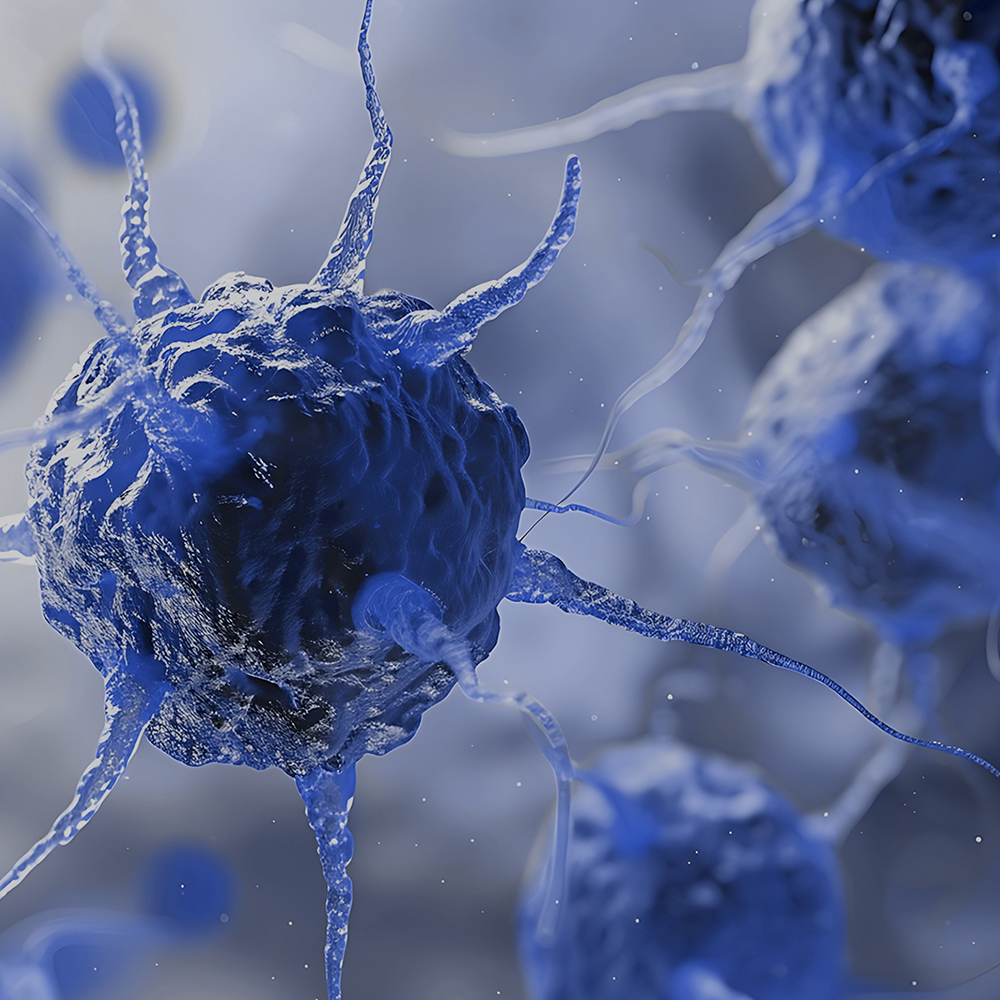
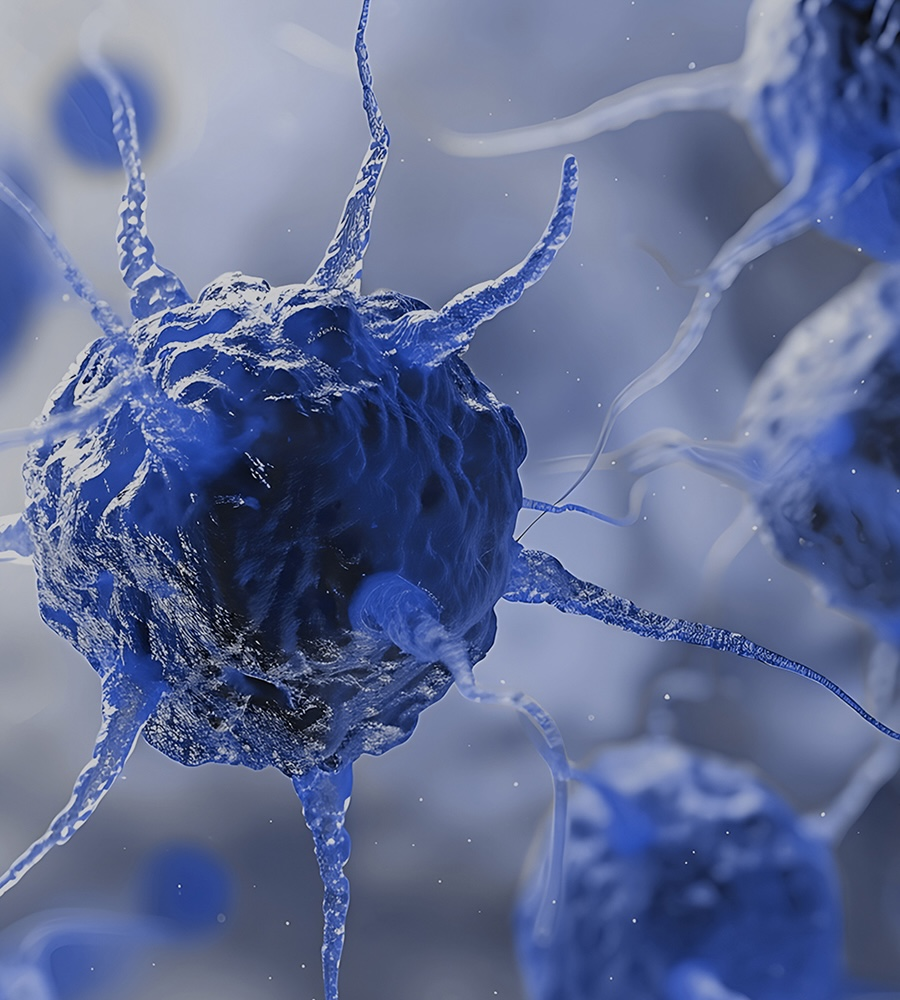
Add About ALS section

diff --git a/src/components/About.jsx b/src/components/About.jsx
@@ -1,0 +1,31 @@
+import React from 'react';
+import cell2 from '../../assets/cell2.jpg';
+
+function About() {
+  return (
+    <section id="about" className="about-section">
+      <div className="about-content">
+        <div className="section-title about-title">
+          <h2>About ALS</h2>
+        </div>
+        <div className="about-boxes">
+          <div className="about-left">
+            <div className="about-box-upper">
+              <p>Lorem ipsum dolor sit amet, consectetur adipiscing elit, sed do eiusmod tempor incididunt ut labore et dolore magna aliqua. Ut enim ad minim veniam, quis nostrud exercitation ullamco laboris nisi ut aliquip ex ea commodo consequat. </p>
+            </div>
+            <div className="about-box-lower">
+              <p>Lorem ipsum dolor sit amet, consectetur adipiscing elit, sed do eiusmod tempor incididunt ut labore et dolore magna aliqua. Ut enim ad minim veniam, quis nostrud exercitation ullamco laboris nisi ut aliquip ex.</p>
+              <p>Lorem ipsum dolor sit amet, consectetur adipiscing elit, sed do eiusmod tempor incididunt ut labore et dolore magna aliqua. Ut enim ad minim veniam, quis nostrud exercitation ullamco laboris nisi ut aliquip ex.</p>
+              <p>Lorem ipsum dolor sit amet, consectetur adipiscing elit, sed do eiusmod tempor incididunt ut labore et dolore magna aliqua. Ut enim ad minim veniam, quis nostrud exercitation ullamco laboris nisi ut aliquip ex.</p>
+            </div>
+          </div>
+          <div className="about-right">
+            <img src={cell2} alt="ALS cell" />
+          </div>
+        </div>
+      </div>
+    </section>
+  );
+}
+
+export default About;

diff --git a/src/index.css b/src/index.css
@@ -109,10 +109,13 @@ a {
   margin: 0 auto;
 }
 
-.mission-title {
-  flex: 0 0 30%;
+.section-title {
   font-size: 2em;
   font-weight: bold;
+}
+
+.mission-title {
+  flex: 0 0 30%;
 }
 
 .mission-text {
@@ -136,3 +139,62 @@ a {
   width: auto;
 }
 
+.about-section {
+  padding: 50px;
+  scroll-margin-top: 200px;
+}
+
+.about-content {
+  max-width: 1200px;
+  margin: 0 auto;
+}
+
+.about-title {
+  margin-bottom: 20px;
+}
+
+.about-boxes {
+  display: flex;
+  gap: 20px;
+}
+
+.about-left {
+  flex: 3; /* 60% */
+  display: flex;
+  flex-direction: column;
+  gap: 20px;
+}
+
+.about-right {
+  flex: 2; /* 40% */
+}
+
+.about-right img {
+  width: 100%;
+  height: 100%;
+  object-fit: cover;
+  border-radius: 15px;
+}
+
+.about-box-upper {
+  background-color: #245B90;
+  color: white;
+  padding: 20px;
+  border-radius: 15px;
+  flex: 1;
+  display: flex;
+  justify-content: center;
+  align-items: center;
+}
+
+.about-box-lower {
+  background-color: rgba(0, 108, 208, 0.1);
+  color: #00417E;
+  padding: 20px;
+  border-radius: 15px;
+  flex: 2;
+  flex-direction: c;
+  display: flex;
+  justify-content: center;
+  align-items: center;
+}

diff --git a/src/App.jsx b/src/App.jsx
@@ -2,6 +2,7 @@ import React, { useState, useEffect } from 'react';
 import Header from './components/Header';
 import Hero from './components/Hero';
 import Mission from './components/Mission';
+import About from './components/About';
 
 function App() {
   const [isScrolled, setIsScrolled] = useState(false);
@@ -28,6 +29,7 @@ function App() {
       <Header isScrolled={isScrolled} />
       <Hero />
       <Mission />
+      <About />
     </div>
   );
 }

diff --git a/src/components/Mission.jsx b/src/components/Mission.jsx
@@ -5,7 +5,7 @@ function Mission() {
   return (
     <section id="mission" className="mission-section">
       <div className="mission-content">
-        <div className="mission-title">
+        <div className="section-title mission-title">
           <h2>Our Mission</h2>
         </div>
         <div className="mission-text">
